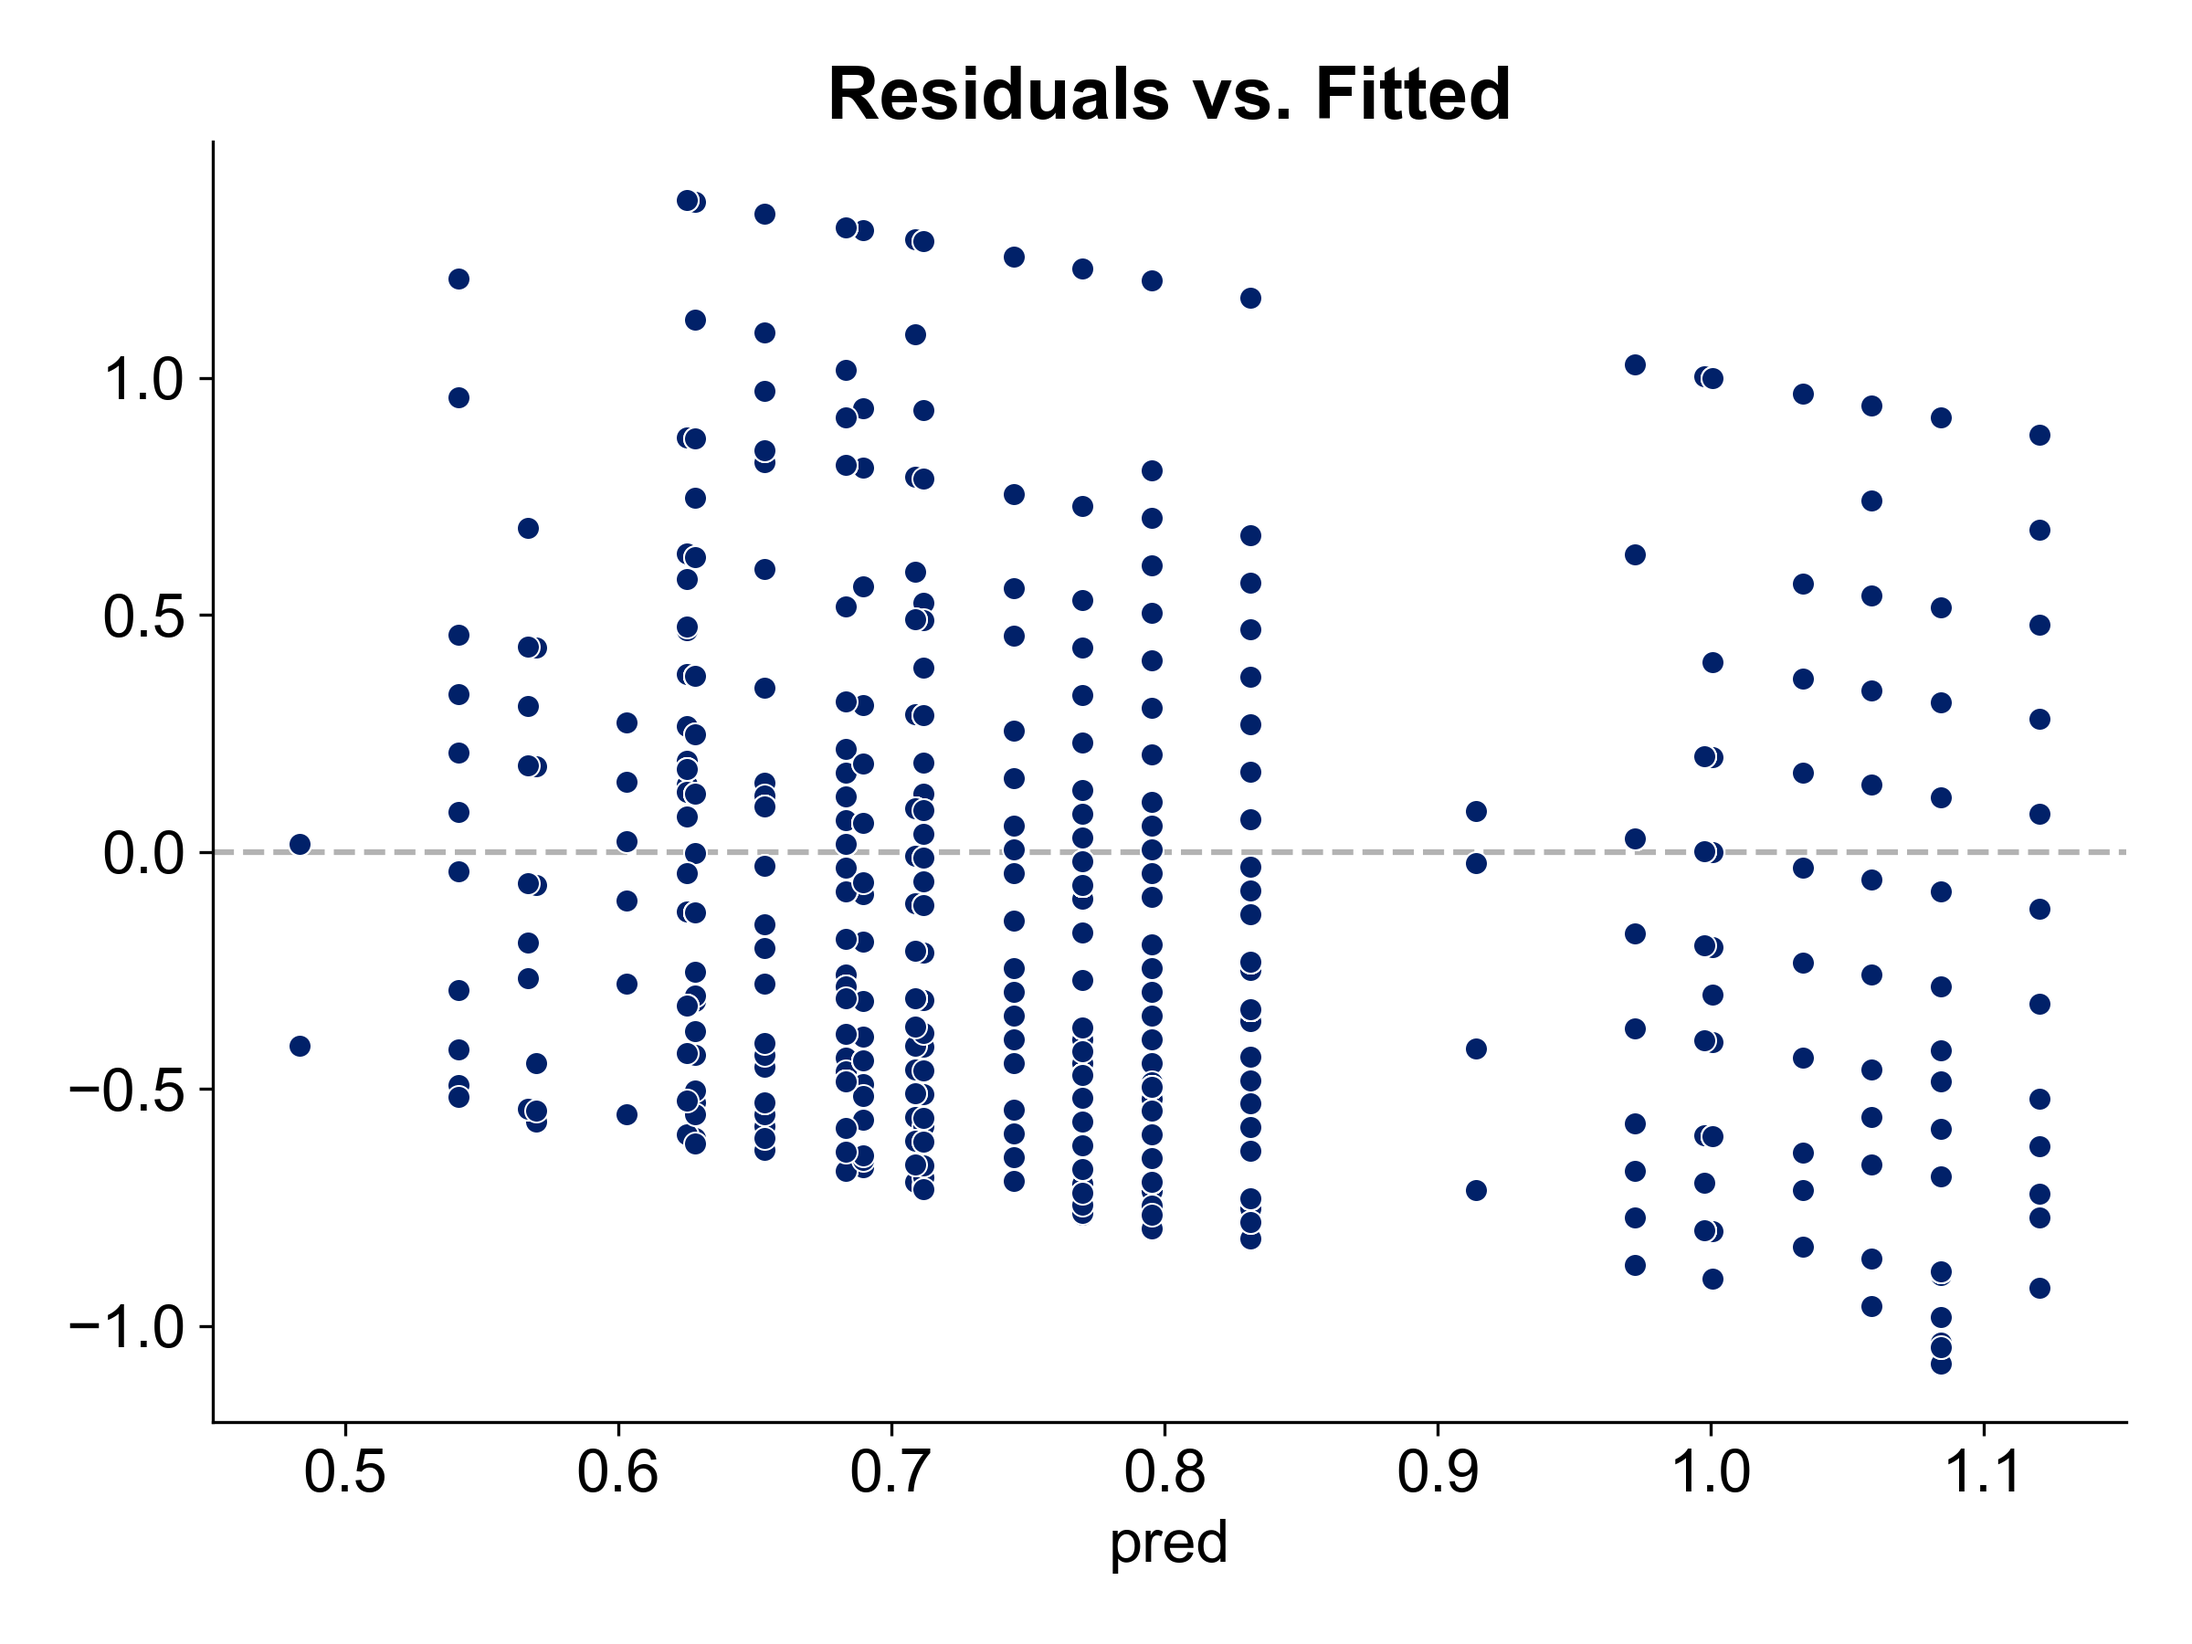
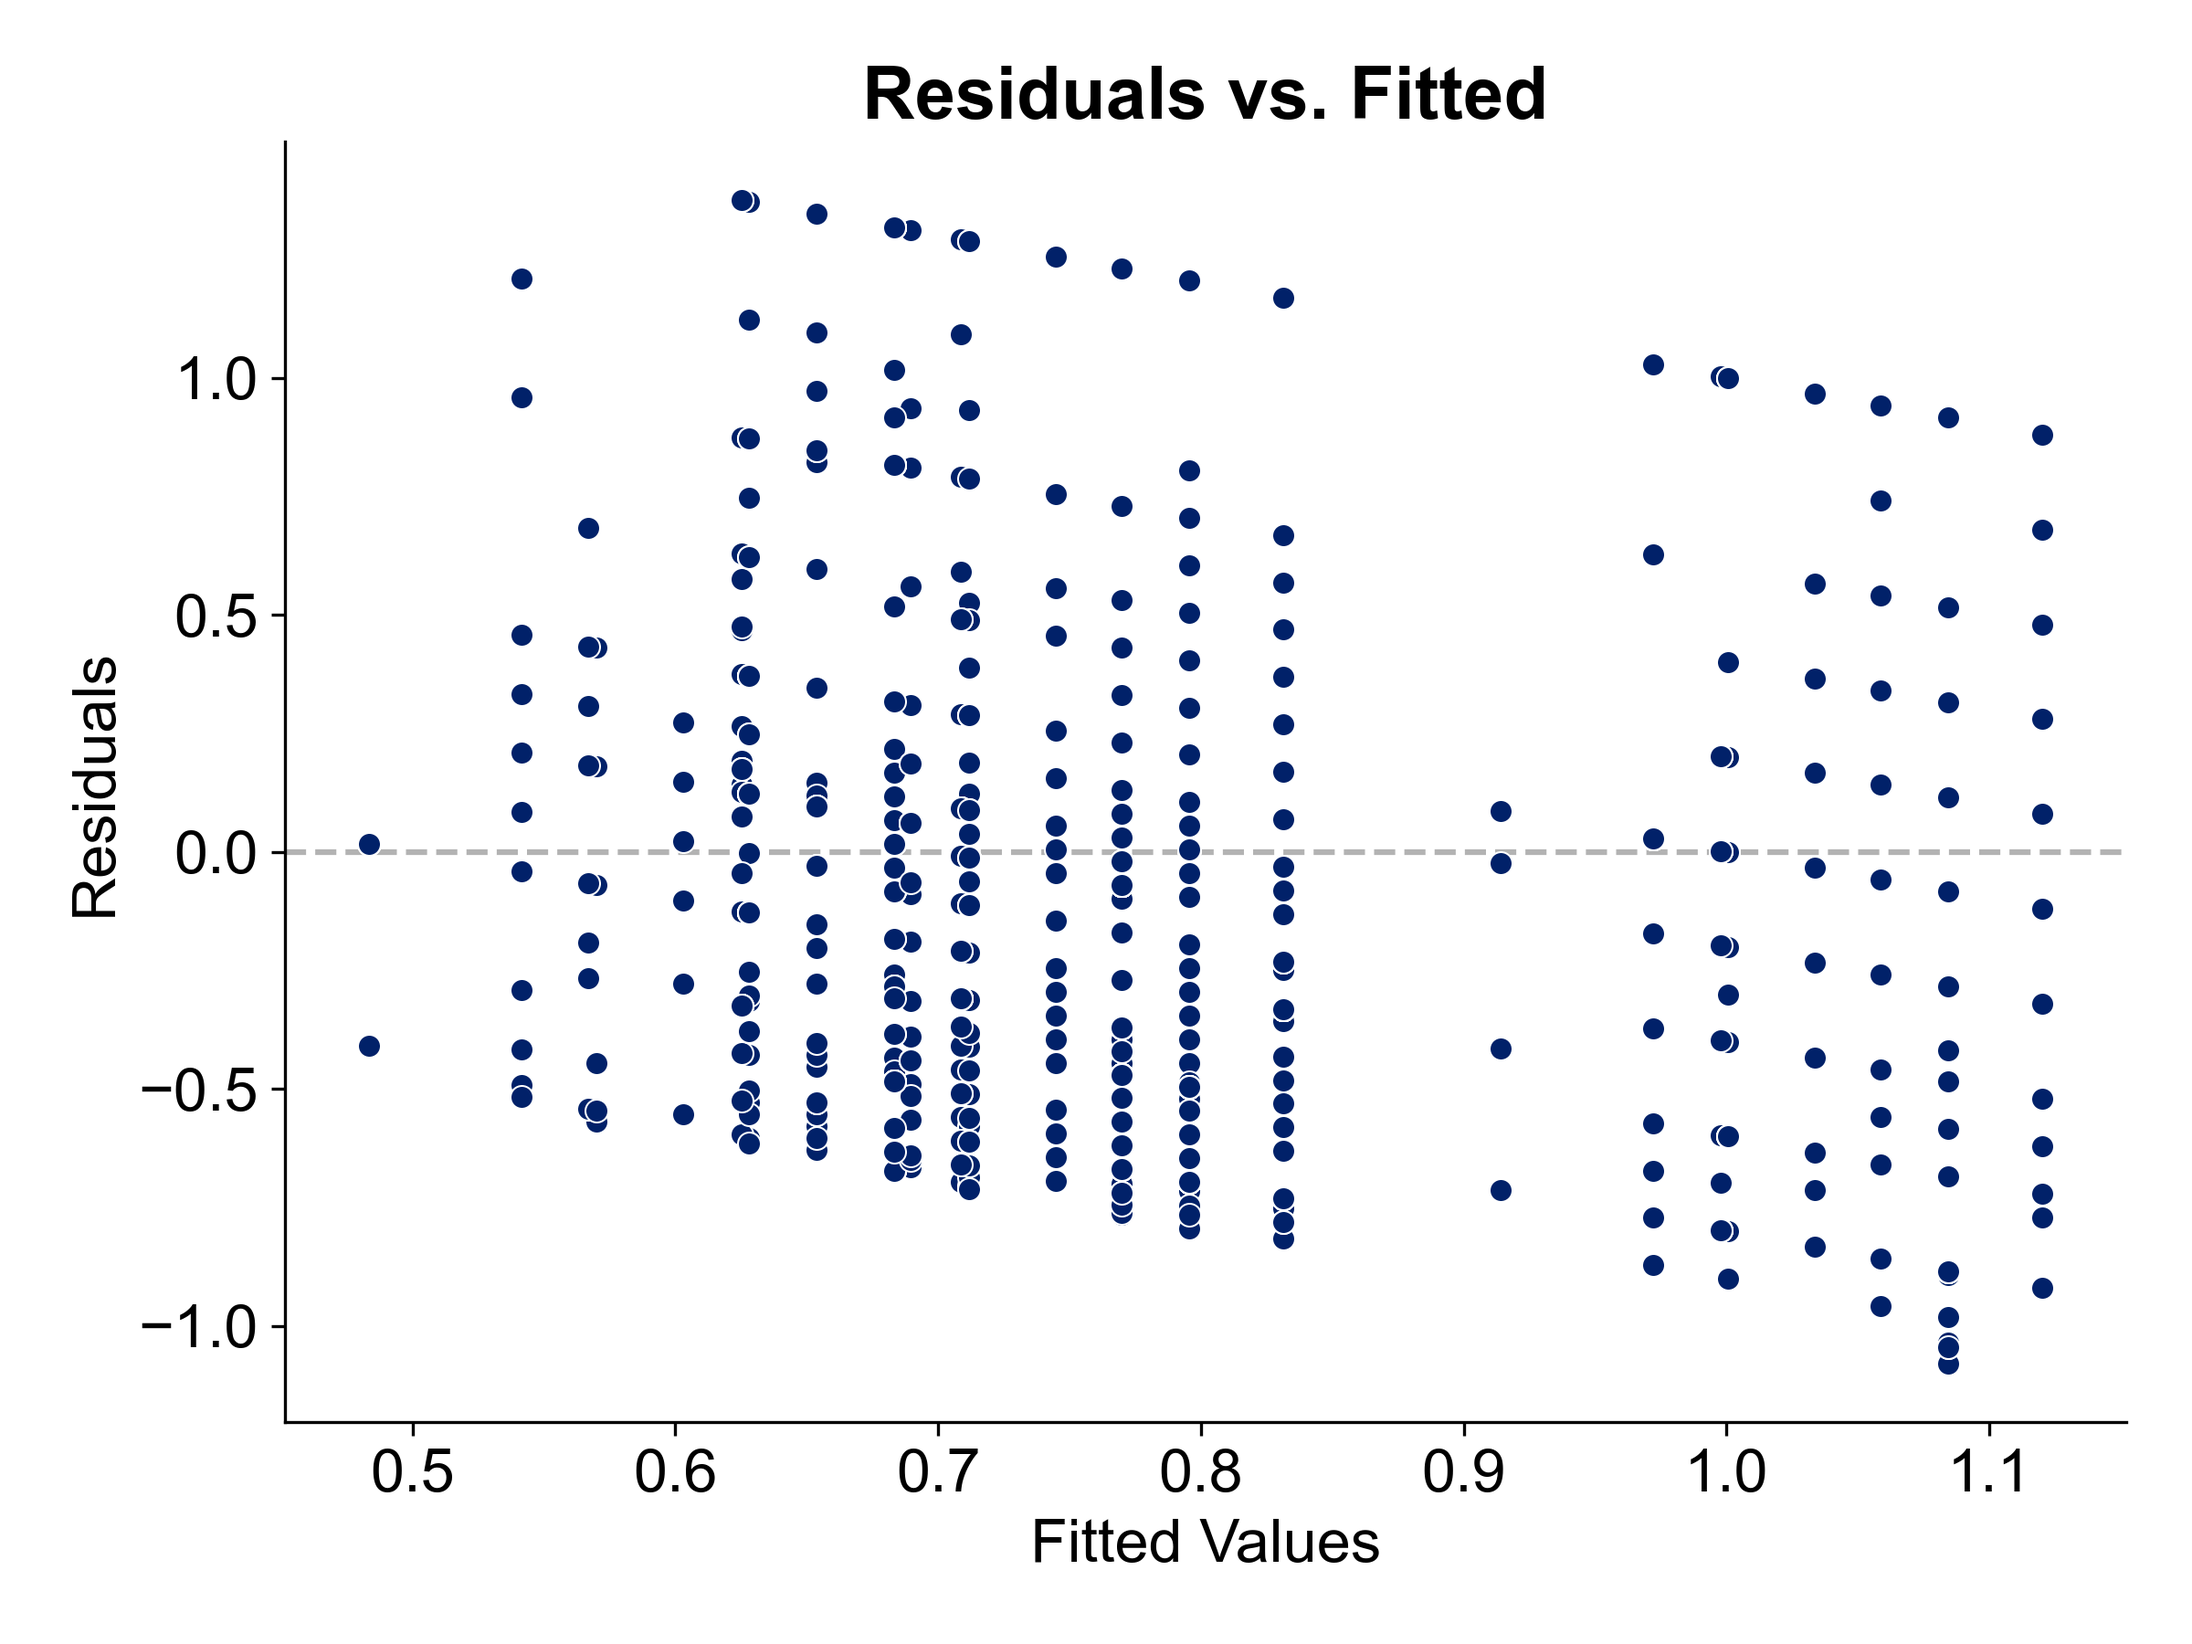
labels

diff --git a/Presentation/part1_plots.py b/Presentation/part1_plots.py
@@ -330,6 +330,8 @@ ax.axhline(0, ls="--", color="0.7", zorder=1)
 
 sns.despine()
 ax.set_title("Residuals vs. Fitted", weight="bold")
+ax.set_xlabel("Fitted Values")
+ax.set_ylabel("Residuals")
 plt.tight_layout()
 plt.savefig("Images/lm_resid_fitted.png", facecolor="white", dpi=300)
 
